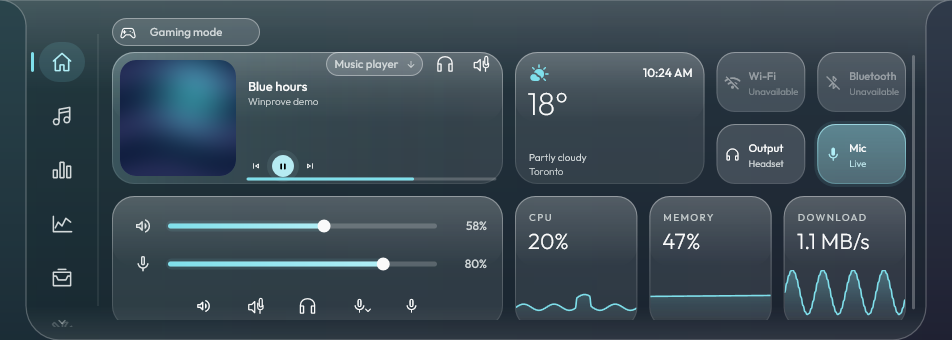
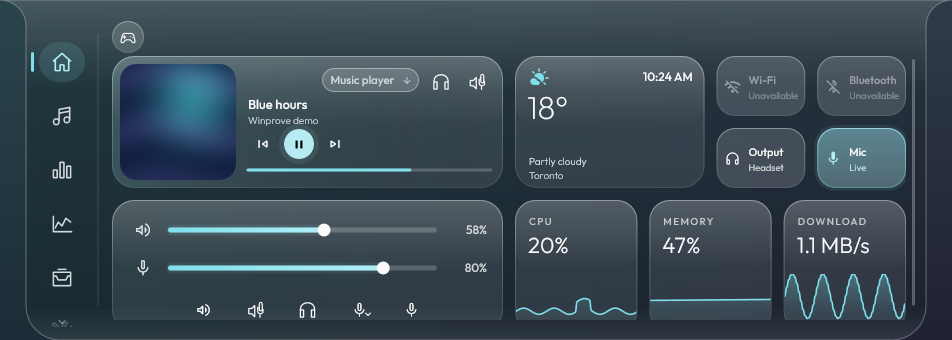
Document screenshot output choices and refresh Bar preview

diff --git a/README.md b/README.md
@@ -70,6 +70,14 @@ With the Bar along the top edge, double-click its empty top or bottom center to 
 
 **Gaming mode** on Home uses the same setting as **Settings → Background → Lite mode**. The controller icon expands on hover and stays open with **Enabled** while the mode is on, in both the hub and Bar. It pauses tracking, sensors, traffic capture, automatic scans and update checks, media observation and animated wallpapers, and reduces animations. Turning it off restores your saved choices. Manual tools and enabled Windows mods remain available. Downloads and Windows changes already in progress aren't interrupted.
 
+## Screenshots
+
+Screenshot settings include a magnified-reticle switch and an optional step to adjust the selected area before capturing. Drag to move or resize it, then press Enter or double-click to capture.
+
+Turn off **Show options after screenshot** to choose one automatic action: copy to the clipboard, open the default viewer, save to your folder, or upload to Imgur and copy the link. Clipboard-only creates no image file, gallery copy or upload. **Capture region to clipboard only** applies that action once without changing your preferred mode.
+
+![Screenshot output settings](docs/images/screenshot-output.png)
+
 ## FPS display
 
 Add FPS display from Widgets, or enable its corner overlay in Windows Mods. It also works in the Bar, Windows taskbar and on the desktop.
